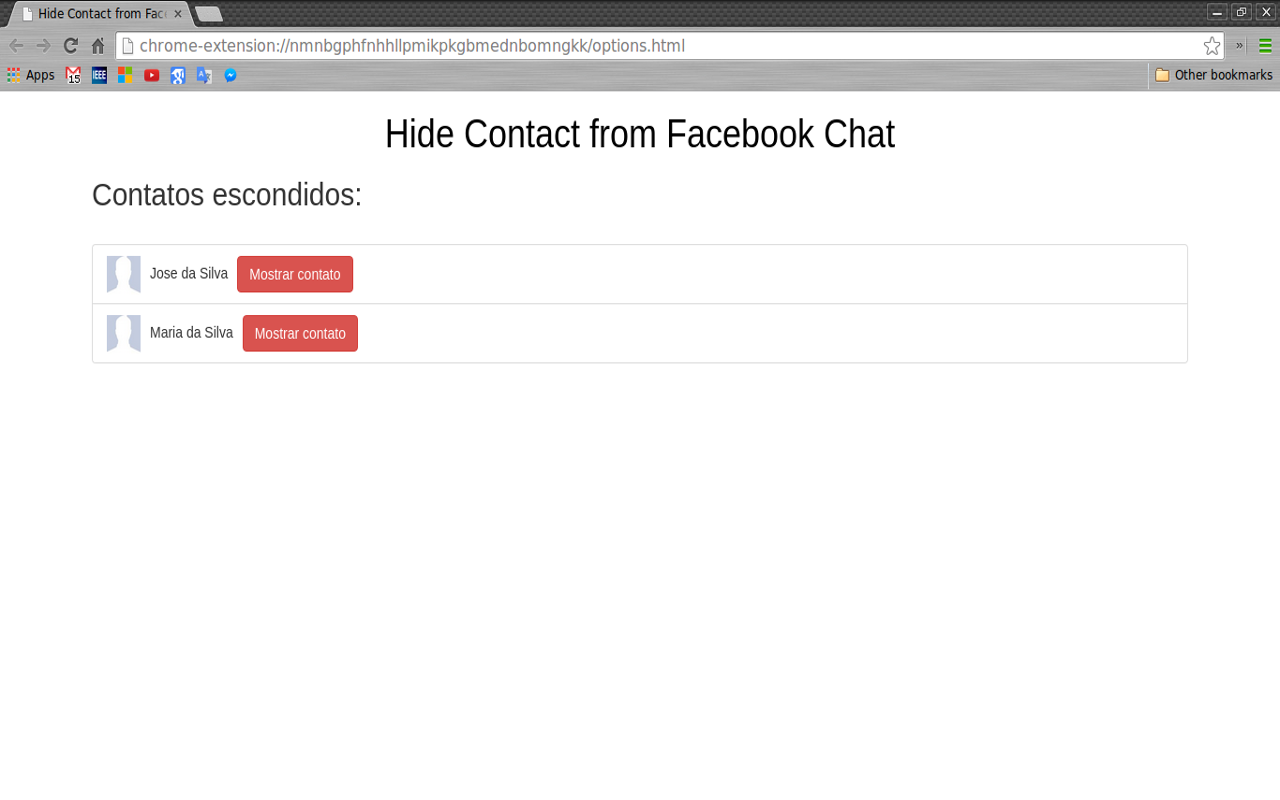
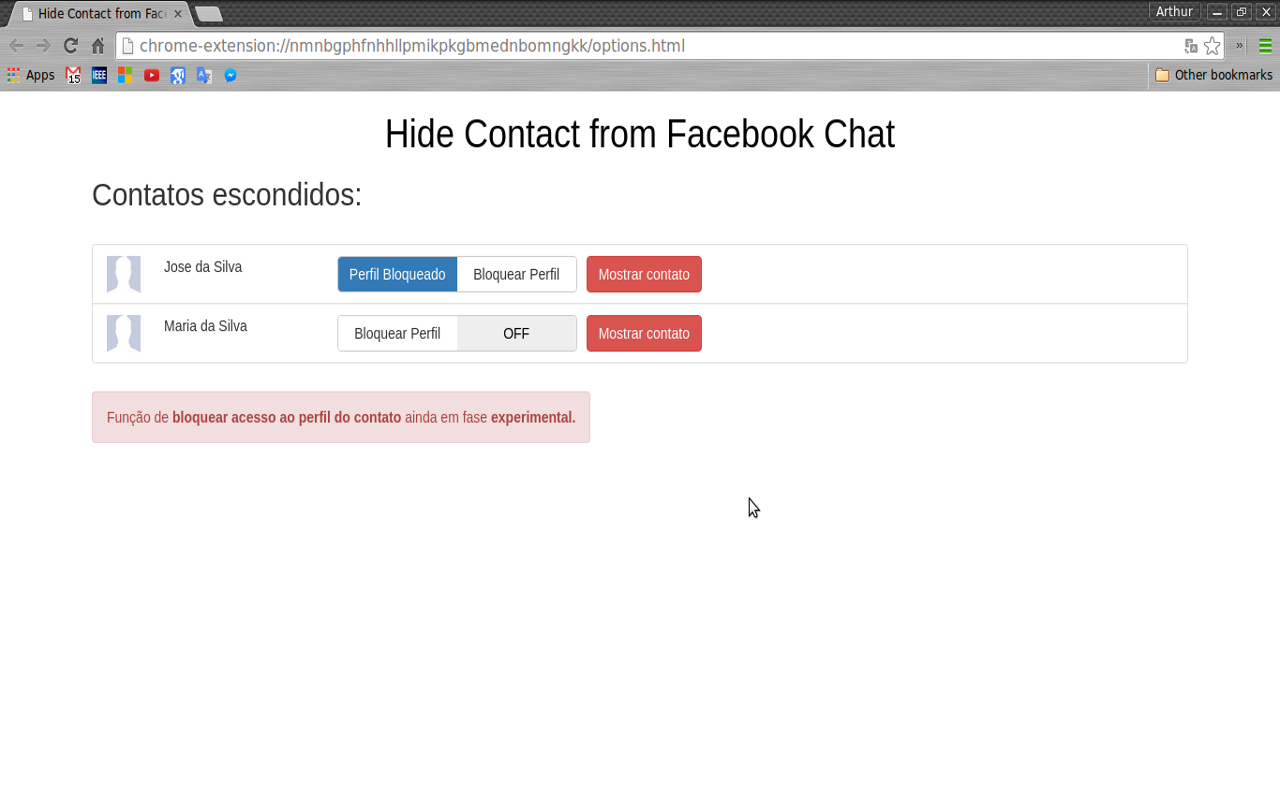
atualizado: screenshot

diff --git a/js/options.js b/js/options.js
@@ -72,6 +72,8 @@ function restore_options() {
 
           li_contato_img.setAttribute("width", "36px");
           li_contato_img.setAttribute("height", "36px");
+          // img default
+          // https://fbcdn-profile-a.akamaihd.net/hprofile-ak-xfp1/v/t1.0-1/c46.9.109.109/283270_257757160902107_690367_n.jpg?oh=52948be8dc44a2d16b7d552efbae1f83&oe=565A3CDD&__gda__=1447636909_5ee3a02af75a7f31cebd231d077651df
           li_contato_img.setAttribute("src", img);
           li_contato_img.setAttribute("class", "pull-left");
 

diff --git a/options.html b/options.html
@@ -22,7 +22,7 @@
         <button id="save" class="btn btn-success">Save</button>-->
         <div>
             <br />
-            <span class="alert alert-danger">Função de <strong>bloquear acesso ao perfil do contato</strong> ainda em fase <strong>experimental</strong></span>
+            <span class="alert alert-danger">Função de <strong>bloquear acesso ao perfil do contato</strong> ainda em fase <strong>experimental.</strong></span>
         </div>
     </div>
   </div>
